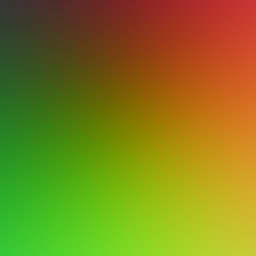
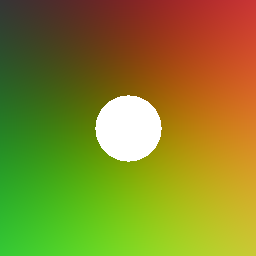
feat: Add spheres and sphere intersection

Changed region(s): [[0.375, 0.375, 0.6562, 0.6562]]

diff --git a/src/scene/sphere.rs b/src/scene/sphere.rs
@@ -1,0 +1,39 @@
+use crate::math::{Point3, Ray};
+
+pub struct Sphere {
+    center: Point3,
+    radius: f32,
+}
+
+impl Sphere {
+    pub fn new(center: Point3, radius: f32) -> Sphere {
+        Sphere { center, radius }
+    }
+
+    pub fn intersection(&self, with: &Ray) -> bool {
+        let oc = self.center - *with.orig();
+        let a = with.dir().dot(with.dir());
+        let b = -2. * with.dir().dot(&oc);
+        let c = oc.dot(&oc) - self.radius * self.radius;
+        let discr = b * b - 4. * a * c;
+        discr >= 0.
+    }
+}
+
+#[cfg(test)]
+mod tests {
+    use crate::math::Vector3;
+
+    use super::*;
+
+    #[test]
+    fn sphere_intersection_test() {
+        let sphere = Sphere::new(Point3::new(0., 0., -1.), 0.5);
+
+        let two_hit = Ray::new(Point3::zero(), Vector3::new(0., 0., -1.));
+        assert!(sphere.intersection(&two_hit));
+
+        let no_hit = Ray::new(Point3::zero(), Vector3::new(0., 1., 1.));
+        assert!(!sphere.intersection(&no_hit));
+    }
+}

diff --git a/src/main.rs b/src/main.rs
@@ -1,4 +1,7 @@
-use lab3::math::{Point3, Ray, Vector3};
+use lab3::{
+    math::{Point3, Ray, Vector3},
+    scene::sphere::Sphere,
+};
 
 const WIDTH: u32 = 256;
 const HEIGHT: u32 = 256;
@@ -17,12 +20,21 @@ fn get_cam_ray(u: u32, v: u32) -> Ray {
 fn main() {
     let mut imgbuf = image::ImageBuffer::new(WIDTH, HEIGHT);
 
+    let sphere = Sphere::new(Point3::new(0., 0., -2.), 0.5);
+
     for (x, y, pixel) in imgbuf.enumerate_pixels_mut() {
         let ray = get_cam_ray(x, y);
+
+        if sphere.intersection(&ray) {
+            *pixel = image::Rgb([255u8, 255u8, 255u8]);
+            continue;
+        }
+
         let mut dir = *ray.dir();
         // scale back into 0..1
         dir += Vector3::new(1., 1., 1.);
         dir *= 0.5;
+
         *pixel = dir.to_rgb();
     }
 

diff --git a/src/math/ray.rs b/src/math/ray.rs
@@ -20,6 +20,10 @@ impl Ray {
     pub fn dir(&self) -> &Vector3 {
         &self.direction
     }
+
+    pub fn orig(&self) -> &Vector3 {
+        &self.origin
+    }
 }
 
 // --- Tests ---

diff --git a/src/lib.rs b/src/lib.rs
@@ -1,1 +1,2 @@
 pub mod math;
+pub mod scene;

diff --git a/src/scene.rs b/src/scene.rs
@@ -1,0 +1,1 @@
+pub mod sphere;
